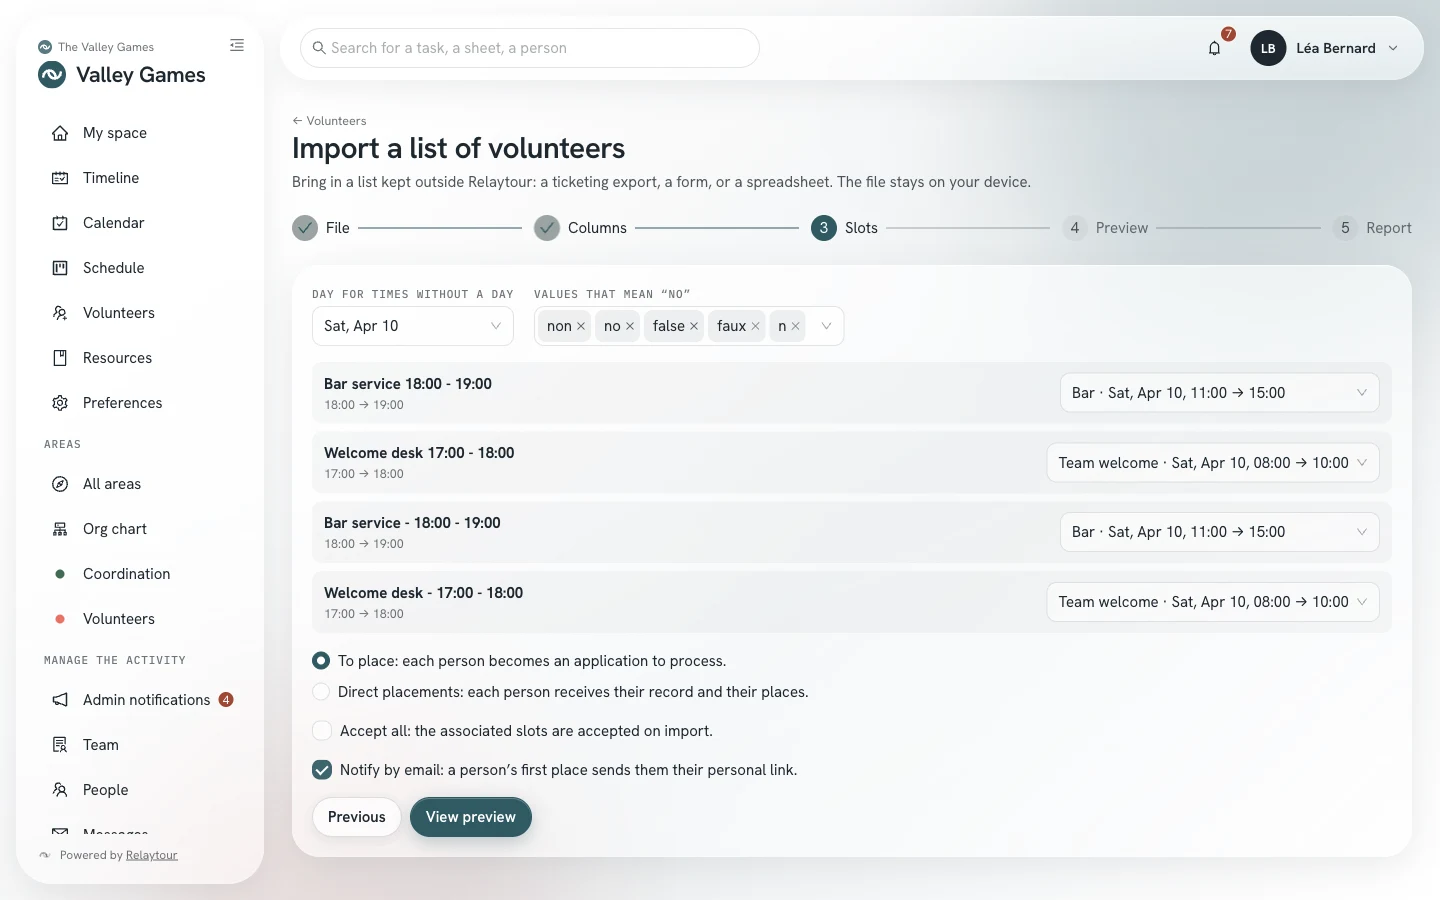
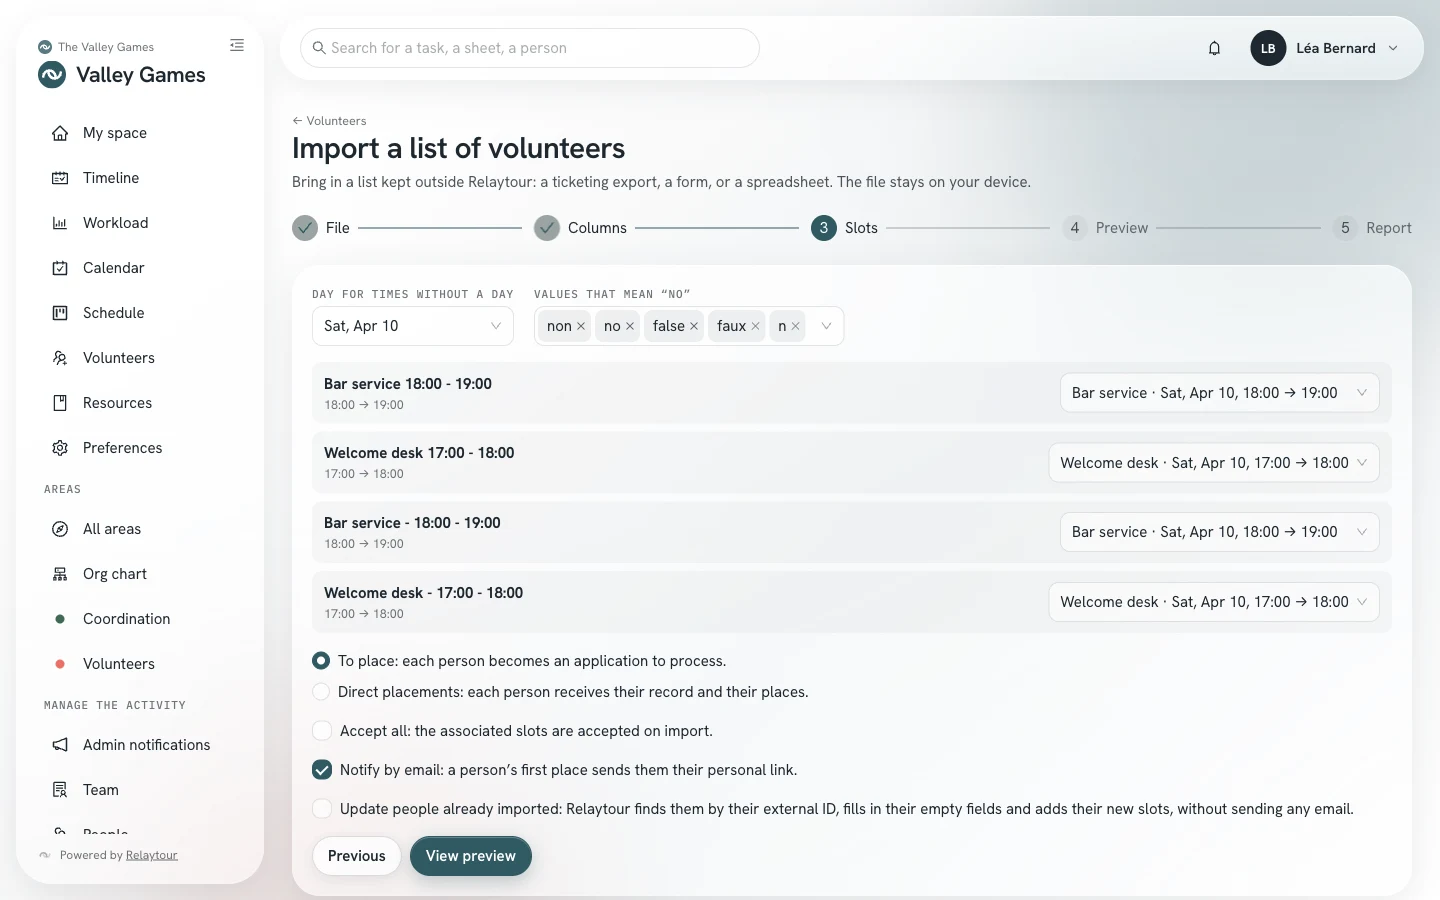
docs(site): reprendre les captures de l'étape Séquences de l'import (#374)

diff --git a/site/modes-d-emploi/benevoles.html b/site/modes-d-emploi/benevoles.html
@@ -243,7 +243,7 @@
           <p>Enregistrez une <strong>correspondance d'import</strong> pour retrouver vos choix au prochain fichier de la même source. Une correspondance garde les en-têtes et les associations, jamais les données des personnes.</p>
           <p>Le fichier peut décrire les postes de trois façons. Une colonne par poste ou par créneau, dont une cellule remplie signifie « choisi ». Une cellule qui énumère plusieurs postes et horaires. Plusieurs lignes par personne, réunies par une colonne de regroupement.</p>
           <figure>
-            <img src="../captures/import-sequences.webp" width="1440" height="900" loading="lazy" alt="Étape Séquences de l'import : les postes du fichier avec leurs horaires, chacun associé à une séquence du programme, et le choix entre À répartir et Places directes." />
+            <img src="../captures/import-sequences.webp" width="1440" height="900" loading="lazy" alt="Étape Séquences de l'import : les postes du fichier avec leurs horaires, chacun associé à une séquence du programme, le choix entre À répartir et Places directes, puis l'option de mise à jour des personnes déjà importées." />
             <figcaption>L'étape « Séquences » : chaque poste du fichier rejoint une séquence du programme.</figcaption>
           </figure>
           <p>Un horaire sans jour reçoit le jour choisi en haut de l'étape. Indiquez aussi les valeurs qui signifient « non » dans votre outil, par exemple « non » ou « false ».</p>

diff --git a/site/en/modes-d-emploi/benevoles.html b/site/en/modes-d-emploi/benevoles.html
@@ -243,7 +243,7 @@
           <p>Save an <strong>import mapping</strong> to reuse your choices with the next file from the same source. A mapping keeps the headers and the matches, never the people’s data.</p>
           <p>The file can describe positions in three ways. One column per position or time slot, where a filled cell means “chosen”. One cell that lists several positions and times. Several rows per person, joined by a grouping column.</p>
           <figure>
-            <img src="../captures/import-sequences.webp" width="1440" height="900" loading="lazy" alt="Slots step of the import: the file’s positions with their times, each matched to a schedule slot, and the choice between To place and Direct placements." />
+            <img src="../captures/import-sequences.webp" width="1440" height="900" loading="lazy" alt="Slots step of the import: the file’s positions with their times, each matched to a schedule slot, the choice between To place and Direct placements, and the option to update people already imported." />
             <figcaption>The “Slots” step: each position in the file joins a schedule slot.</figcaption>
           </figure>
           <p>A time without a day receives the day chosen at the top of the step. Also enter the values that mean “no” in your tool, for example “non” or “false”.</p>
